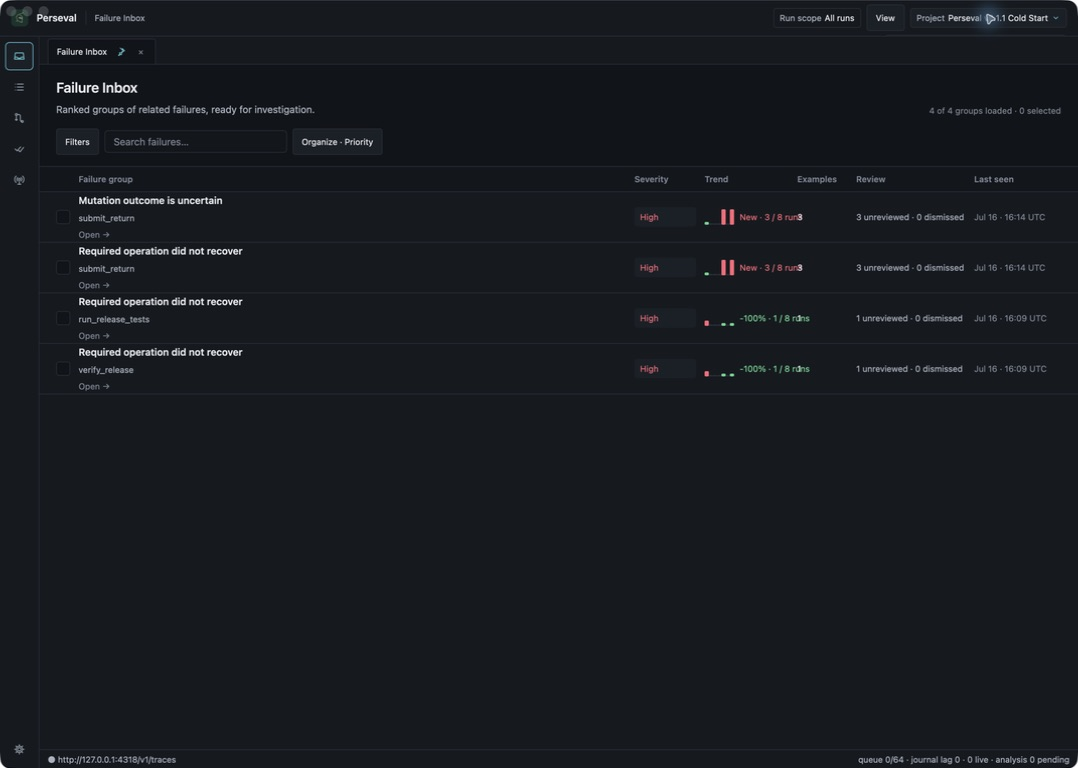
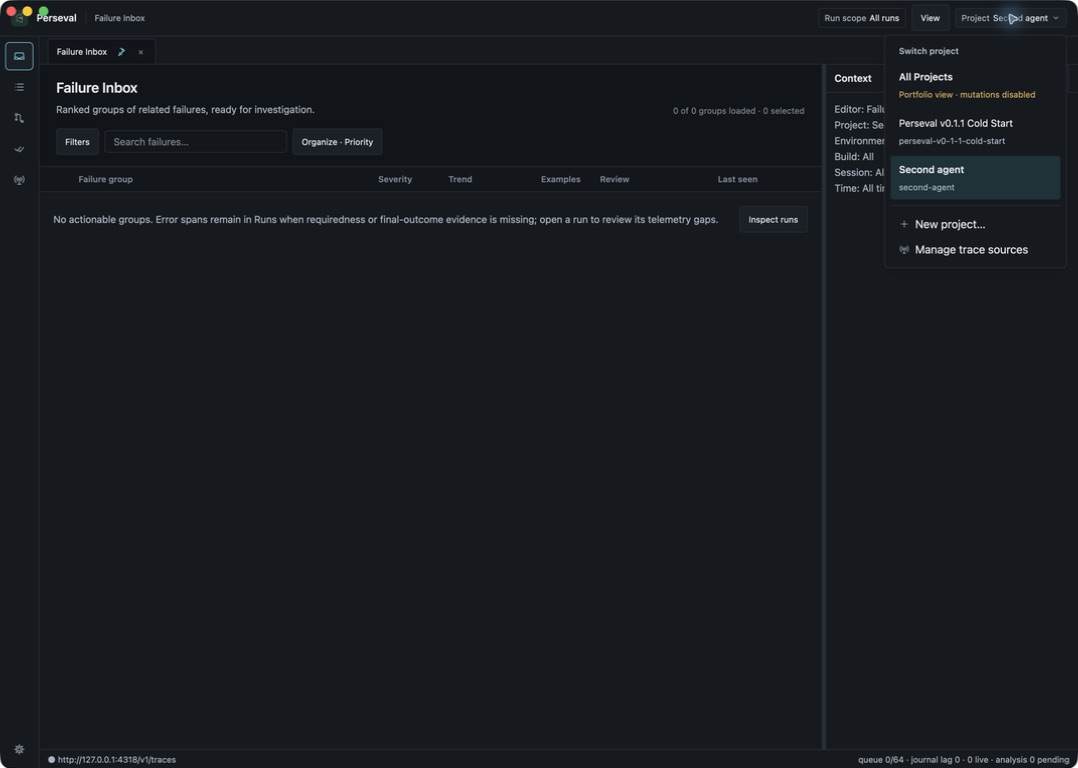
Render project menu above the workbench

diff --git a/apps/perseval-app/src/screens/workbench_shell/chrome.rs b/apps/perseval-app/src/screens/workbench_shell/chrome.rs
@@ -278,7 +278,9 @@ impl WorkbenchShell {
                     .child(icon(AppIcon::ChevronDown, 13., self.project_menu_open))
                     .on_click(cx.listener(|this, _, _, cx| this.toggle_project_menu(cx))),
             )
-            .when(self.project_menu_open, |switcher| switcher.child(menu))
+            .when(self.project_menu_open, |switcher| {
+                switcher.child(deferred(menu.occlude()).with_priority(1))
+            })
     }
 
     pub(super) fn render_activity_rail(